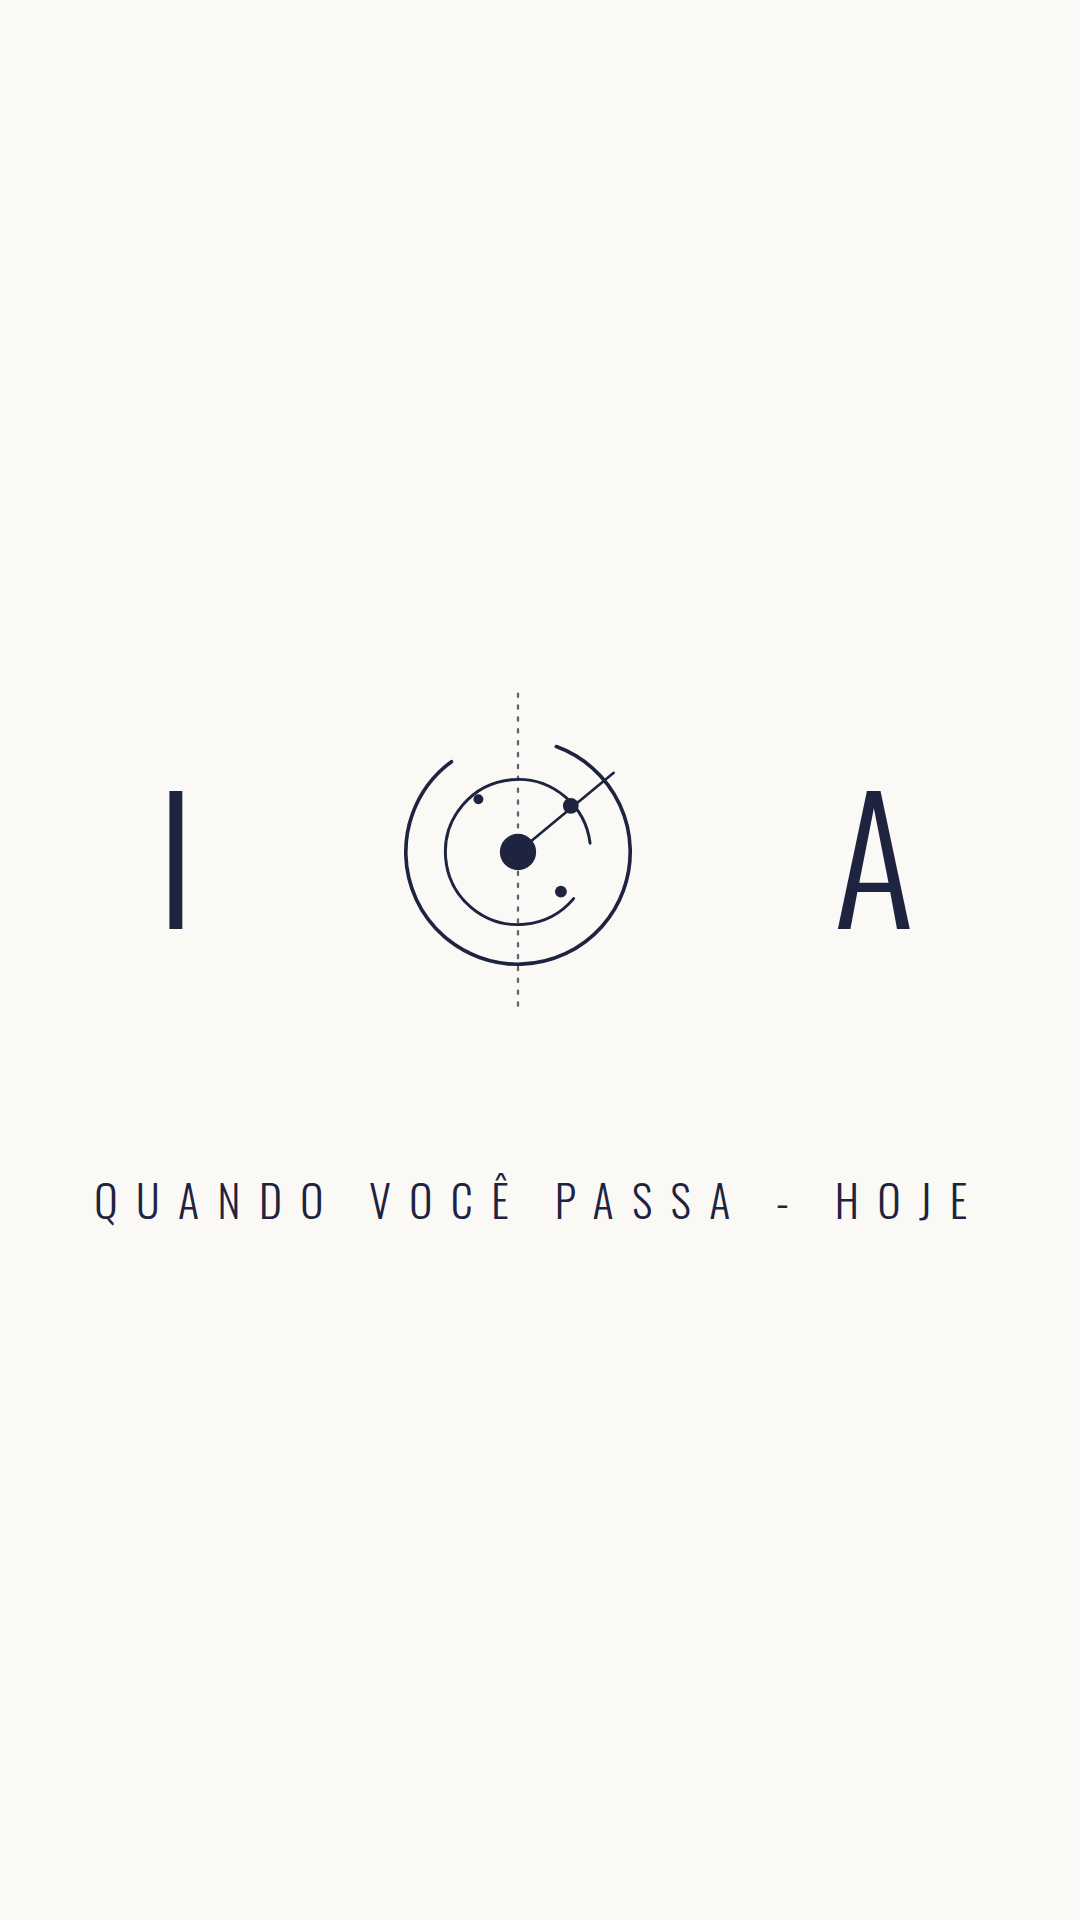
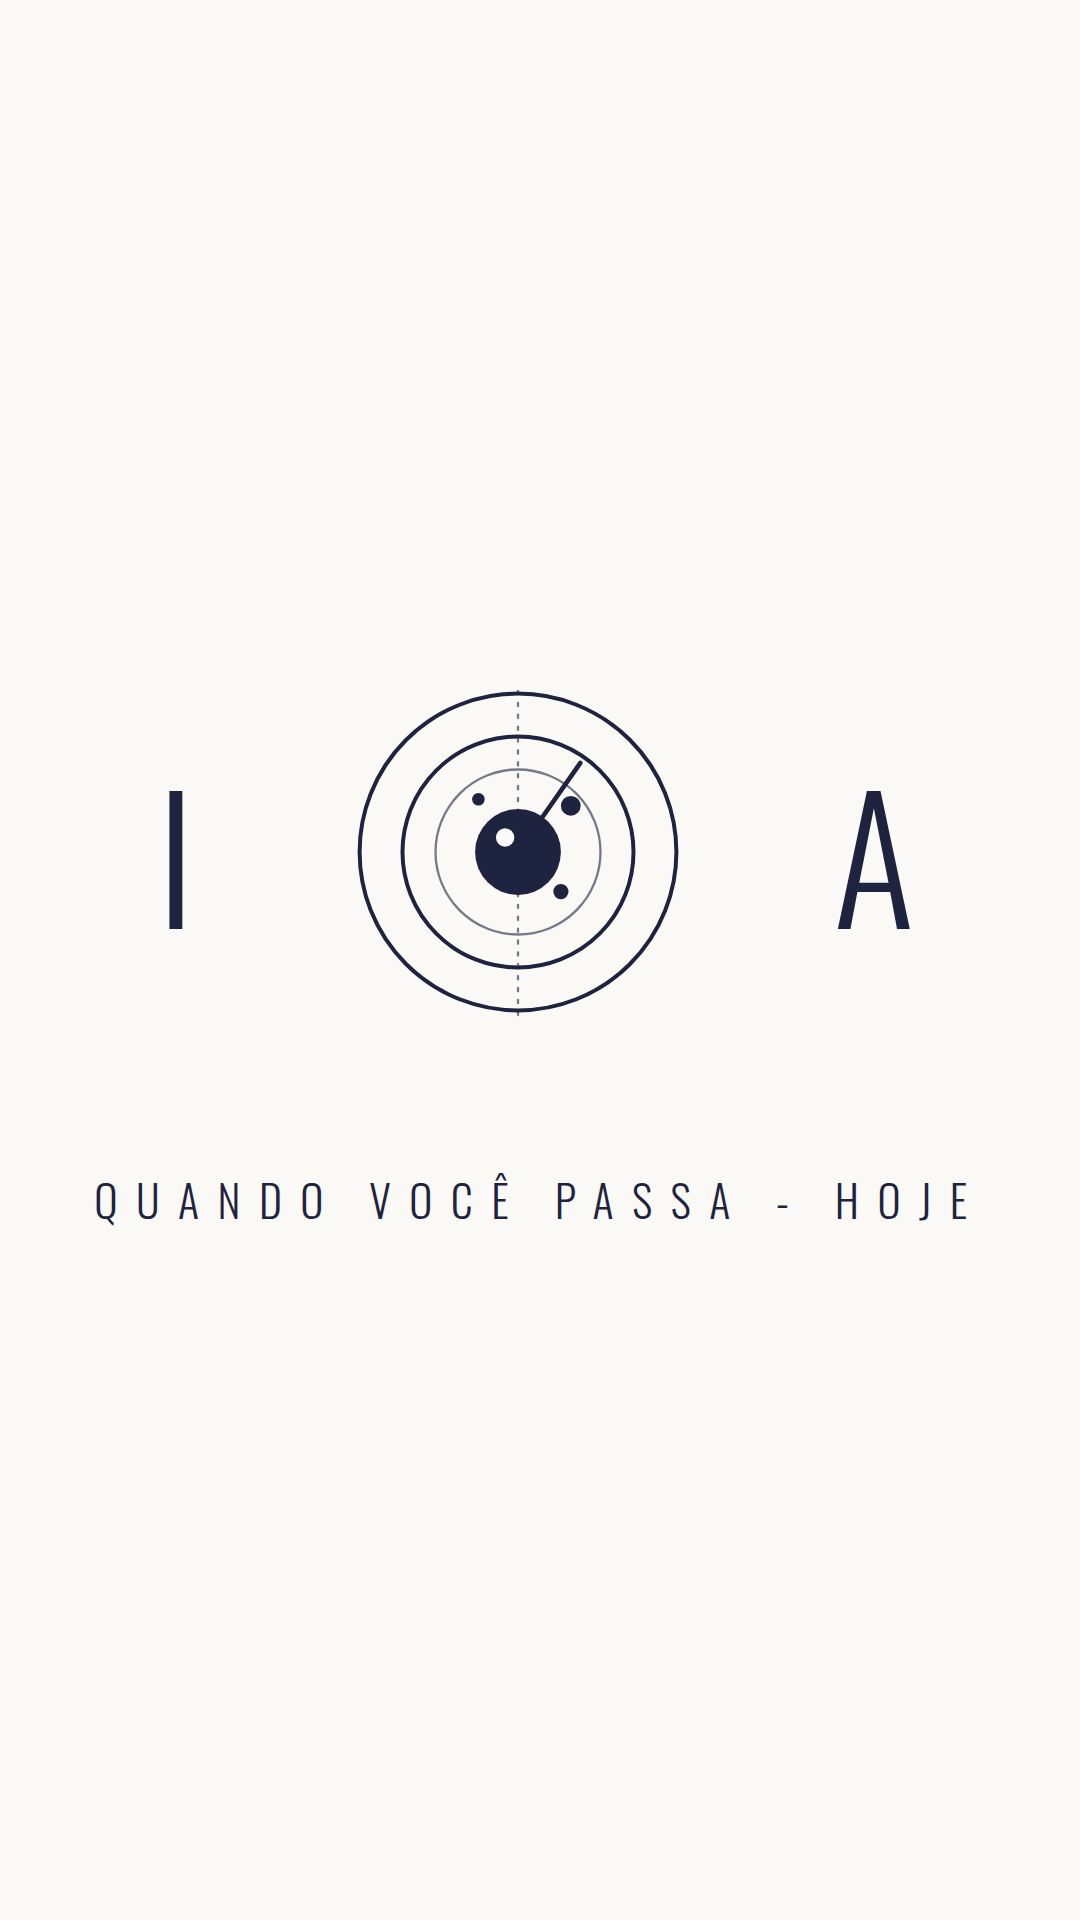
Mistério: marca em traço igual à real e trocadilho com a música
Claude-Session: https://claude.ai/code/session_015WqfV53Y8EeDbiaJmrZRa2

Changed region(s): [[0.3361, 0.375, 0.6417, 0.5312], [0.3056, 0.4375, 0.3361, 0.4688]]

diff --git a/docs/post-misterio.html b/docs/post-misterio.html
@@ -426,15 +426,17 @@ body{display:flex;flex-direction:column;align-items:center;gap:40px;padding:40px
 <section class="sl" id="c3" style="justify-content:center;gap:0;background:#FAF9F6;color:#1E2340">
   <div style="display:flex;align-items:center;justify-content:center;gap:150px;width:100%">
     <span style="font-family:var(--display);font-weight:300;font-size:170px;line-height:1;letter-spacing:.05em">I</span>
-    <svg viewBox="0 0 100 100" width="330" height="330" fill="none" stroke="#1E2340" stroke-width="1.1" stroke-linecap="round">
-      <line x1="50" y1="2" x2="50" y2="98" stroke-dasharray="1 2.6" stroke-width=".7" opacity=".7"/>
-      <circle cx="50" cy="50" r="34" stroke-dasharray="180 34" transform="rotate(-70 50 50)"/>
-      <circle cx="50" cy="50" r="22" stroke-dasharray="120 18" transform="rotate(40 50 50)" stroke-width=".9"/>
-      <circle cx="50" cy="50" r="5.5" fill="#1E2340" stroke="none"/>
-      <circle cx="66" cy="36" r="2.4" fill="#1E2340" stroke="none"/>
-      <circle cx="63" cy="62" r="1.8" fill="#1E2340" stroke="none"/>
-      <circle cx="38" cy="34" r="1.5" fill="#1E2340" stroke="none"/>
-      <line x1="50" y1="50" x2="79" y2="26" stroke-width=".8"/>
+    <svg viewBox="0 0 100 100" width="330" height="330" fill="none" stroke="#1E2340" stroke-width="1.2" stroke-linecap="round">
+      <line x1="50" y1="-6" x2="50" y2="106" stroke-dasharray="1 2.6" stroke-width=".7" opacity=".6"/>
+      <circle cx="50" cy="50" r="48"/>
+      <circle cx="50" cy="50" r="35"/>
+      <circle cx="50" cy="50" r="25" stroke-width=".7" opacity=".6"/>
+      <line x1="50" y1="50" x2="68.9" y2="23" stroke-width="1.4"/>
+      <circle cx="66" cy="36" r="3" fill="#1E2340" stroke="none"/>
+      <circle cx="63" cy="62" r="2.3" fill="#1E2340" stroke="none"/>
+      <circle cx="38" cy="34" r="1.9" fill="#1E2340" stroke="none"/>
+      <circle cx="50" cy="50" r="13" fill="#1E2340" stroke="none"/>
+      <circle cx="46.1" cy="45.6" r="2.8" fill="#FAF9F6" stroke="none"/>
     </svg>
     <span style="font-family:var(--display);font-weight:300;font-size:170px;line-height:1;letter-spacing:.05em">A</span>
   </div>

diff --git a/docs/story-misterio.html b/docs/story-misterio.html
@@ -426,15 +426,17 @@ body{display:flex;flex-direction:column;align-items:center;gap:40px;padding:40px
 <section class="sl" id="c3" style="justify-content:center;gap:0;background:#FAF9F6;color:#1E2340">
   <div style="display:flex;align-items:center;justify-content:center;gap:150px;width:100%">
     <span style="font-family:var(--display);font-weight:300;font-size:170px;line-height:1;letter-spacing:.05em">I</span>
-    <svg viewBox="0 0 100 100" width="330" height="330" fill="none" stroke="#1E2340" stroke-width="1.1" stroke-linecap="round">
-      <line x1="50" y1="2" x2="50" y2="98" stroke-dasharray="1 2.6" stroke-width=".7" opacity=".7"/>
-      <circle cx="50" cy="50" r="34" stroke-dasharray="180 34" transform="rotate(-70 50 50)"/>
-      <circle cx="50" cy="50" r="22" stroke-dasharray="120 18" transform="rotate(40 50 50)" stroke-width=".9"/>
-      <circle cx="50" cy="50" r="5.5" fill="#1E2340" stroke="none"/>
-      <circle cx="66" cy="36" r="2.4" fill="#1E2340" stroke="none"/>
-      <circle cx="63" cy="62" r="1.8" fill="#1E2340" stroke="none"/>
-      <circle cx="38" cy="34" r="1.5" fill="#1E2340" stroke="none"/>
-      <line x1="50" y1="50" x2="79" y2="26" stroke-width=".8"/>
+    <svg viewBox="0 0 100 100" width="330" height="330" fill="none" stroke="#1E2340" stroke-width="1.2" stroke-linecap="round">
+      <line x1="50" y1="-6" x2="50" y2="106" stroke-dasharray="1 2.6" stroke-width=".7" opacity=".6"/>
+      <circle cx="50" cy="50" r="48"/>
+      <circle cx="50" cy="50" r="35"/>
+      <circle cx="50" cy="50" r="25" stroke-width=".7" opacity=".6"/>
+      <line x1="50" y1="50" x2="68.9" y2="23" stroke-width="1.4"/>
+      <circle cx="66" cy="36" r="3" fill="#1E2340" stroke="none"/>
+      <circle cx="63" cy="62" r="2.3" fill="#1E2340" stroke="none"/>
+      <circle cx="38" cy="34" r="1.9" fill="#1E2340" stroke="none"/>
+      <circle cx="50" cy="50" r="13" fill="#1E2340" stroke="none"/>
+      <circle cx="46.1" cy="45.6" r="2.8" fill="#FAF9F6" stroke="none"/>
     </svg>
     <span style="font-family:var(--display);font-weight:300;font-size:170px;line-height:1;letter-spacing:.05em">A</span>
   </div>
